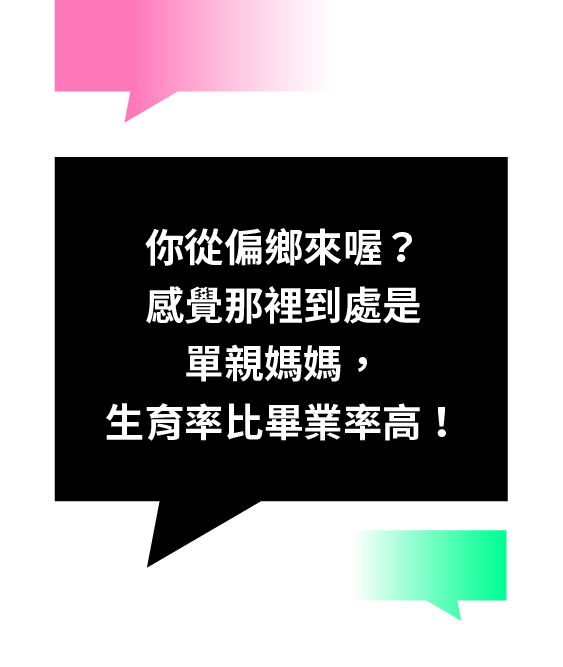
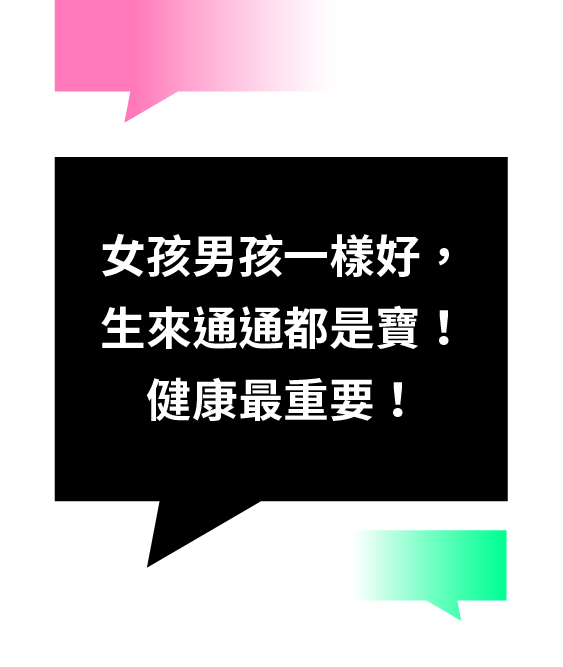
feat: update images

Changed region(s): [[0.1812, 0.3298, 0.8153, 0.6597], [0.7851, 0.4498, 0.8153, 0.5097], [0.7851, 0.3598, 0.8153, 0.3898]]

diff --git a/pages/game-one/index.js b/pages/game-one/index.js
@@ -6,6 +6,7 @@ import { useSpring, animated } from "@react-spring/web";
 import {
   PageWrapper,
   ContentWrapper,
+  ImageWrapper,
 } from "@/components/Common/VisionGame/WrapperComponent";
 import { GameSmallBevelButton } from "@/components/Common/Button/GameUsedBevelButton";
 import { answerImageData } from "../../components/Common/VisionGame/gameImageData";
@@ -63,25 +64,12 @@ const TitleTwo = styled.p`
   white-space: nowrap;
 `;
 
-const TitleThreeWrapper = styled.div`
+const MainImageWrapper = styled.div`
   width: 270px;
   height: 200px;
   min-width: 270px;
   min-height: 200px;
-  background-image: url("images/chiikawa.jpeg");
-  background-repeat: no-repeat;
-  background-position: center;
-  background-size: cover;
-  margin: 10px 0 12px 0;
-`;
-
-const TitleThree = styled.p`
-  color: ${(props) => props.theme.colors.black};
-  font-size: ${(props) => props.theme.fontSizes[72]};
-  font-weight: ${(props) => props.theme.fontWeights.bold};
-  letter-spacing: 4px;
-  text-align: center;
-  white-space: nowrap;
+  margin: 10px 0 20px 0;
 `;
 
 const CopyWrite = styled.p`
@@ -94,7 +82,6 @@ const CopyWrite = styled.p`
 `;
 
 // GameTopic Component
-
 // GameTopic 外層
 const GameTopicOuterWrapper = styled.div`
   width: 290px;
@@ -163,11 +150,18 @@ export default function VisionGameIndex() {
       <StyledContentWrapper>
         <Wrapper>
           <AnimatedIntroWrapper style={fadeInIntro}>
-            <TitleOne>113年 臺灣女孩日</TitleOne>
+            <TitleOne>2024 臺灣女孩日</TitleOne>
             <TitleTwo>偏見眼鏡行</TitleTwo>
-            <TitleThreeWrapper>
-              <TitleThree>驗光室</TitleThree>
-            </TitleThreeWrapper>
+            <MainImageWrapper>
+              <ImageWrapper>
+                <Image
+                  src="/images/VisionGame/vision_game_index.png"
+                  alt="vision_game_index"
+                  width={270}
+                  height={200}
+                />
+              </ImageWrapper>
+            </MainImageWrapper>
             <CopyWrite>{introCopyWrite}</CopyWrite>
             <GameTopicOuterWrapper>
               <GameTopicWrapper>

diff --git a/components/Common/VisionGame/visionGameData.js b/components/Common/VisionGame/visionGameData.js
@@ -11,7 +11,7 @@ const visionGameData = [
   },
   { id: 4, question: "哇你是女生怎麼理工這麼強？", correctAnswer: "no" },
   { id: 5, question: "請指出正確的方向", correctAnswer: "yes" },
-  { id: 6, question: "女生打扮就是無心課業", correctAnswer: "no" },
+  { id: 6, question: "女生愛打扮就是無心課業", correctAnswer: "no" },
   {
     id: 7,
     question: "女騎士三寶闖國道違規，恐吞萬元罰單！",
@@ -25,12 +25,12 @@ const visionGameData = [
   { id: 9, question: "男生留長髮、留短髮都可以！", correctAnswer: "yes" },
   {
     id: 10,
-    question: "你從偏鄉來喔？感覺那裡到處是單親媽媽，生育率比畢業率高！",
-    correctAnswer: "no",
+    question: "女孩男孩一樣好，生來通通都是寶！健康最重要！",
+    correctAnswer: "yes",
   },
   {
     id: 11,
-    question: "月經不要直接講出來，要說「那個來」",
+    question: "月經來不要直接講出來！要說「那個來」",
     correctAnswer: "no",
   },
   { id: 12, question: "請指出正確的方向", correctAnswer: "no" },
